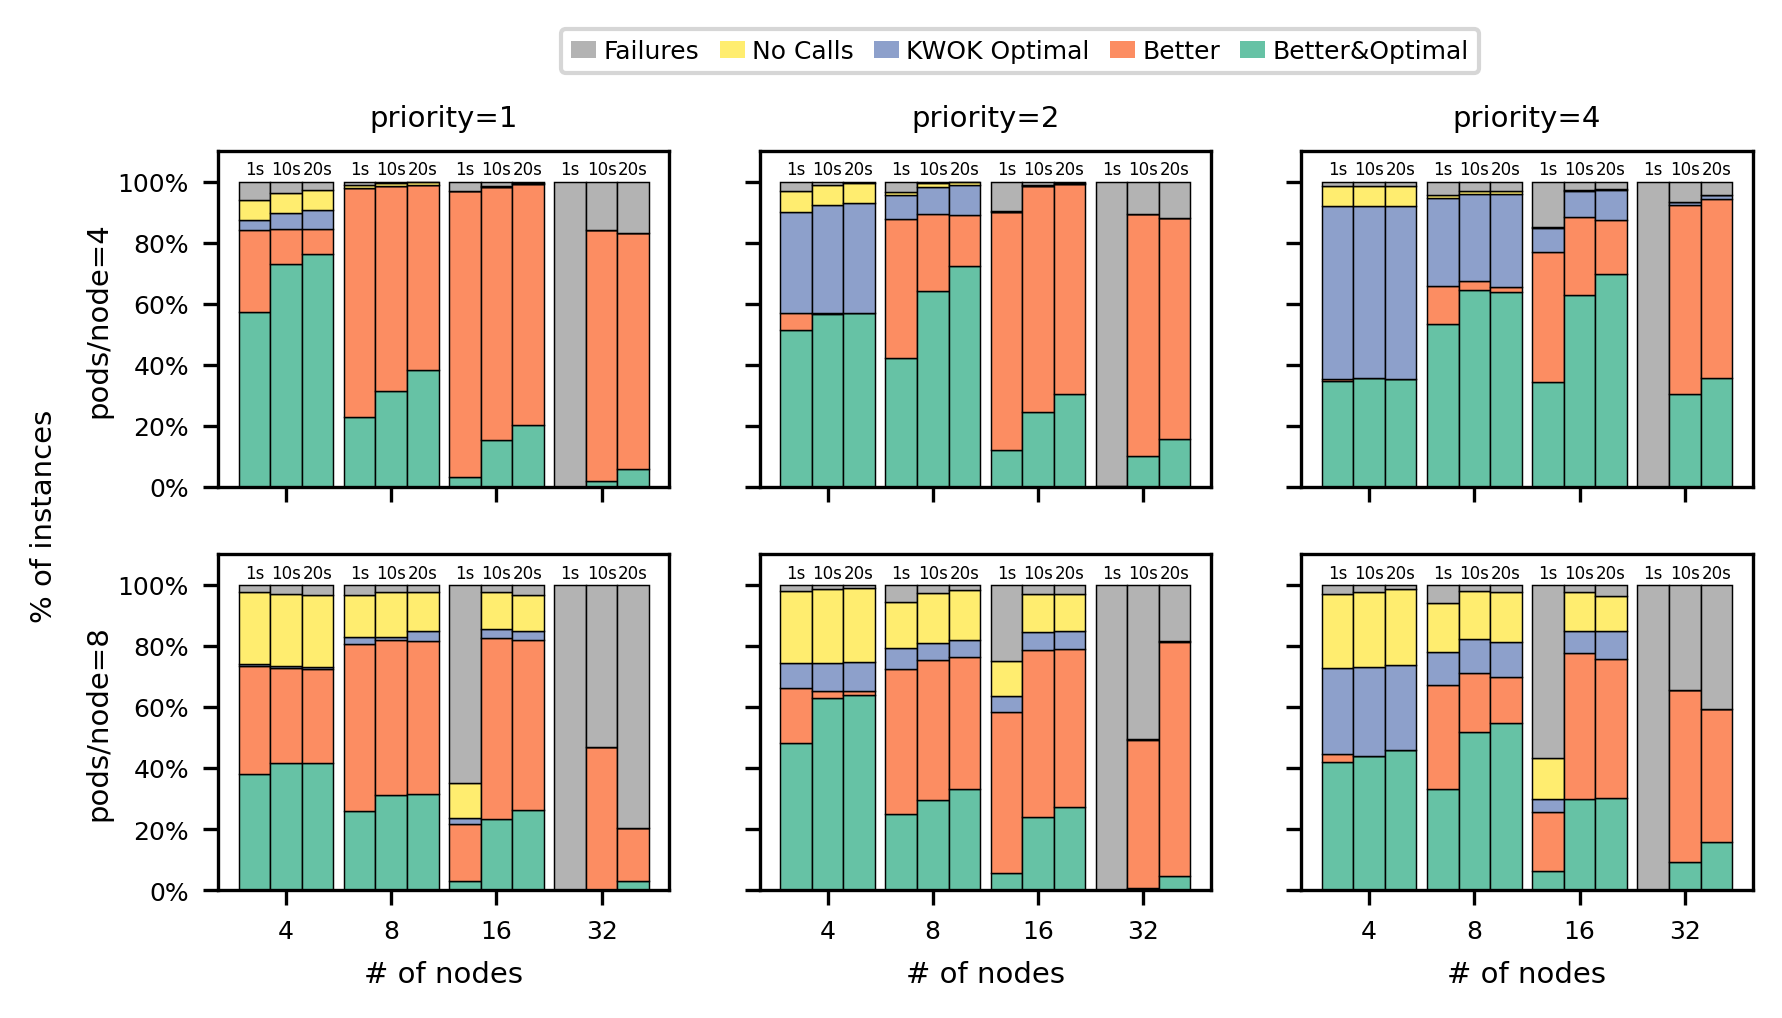
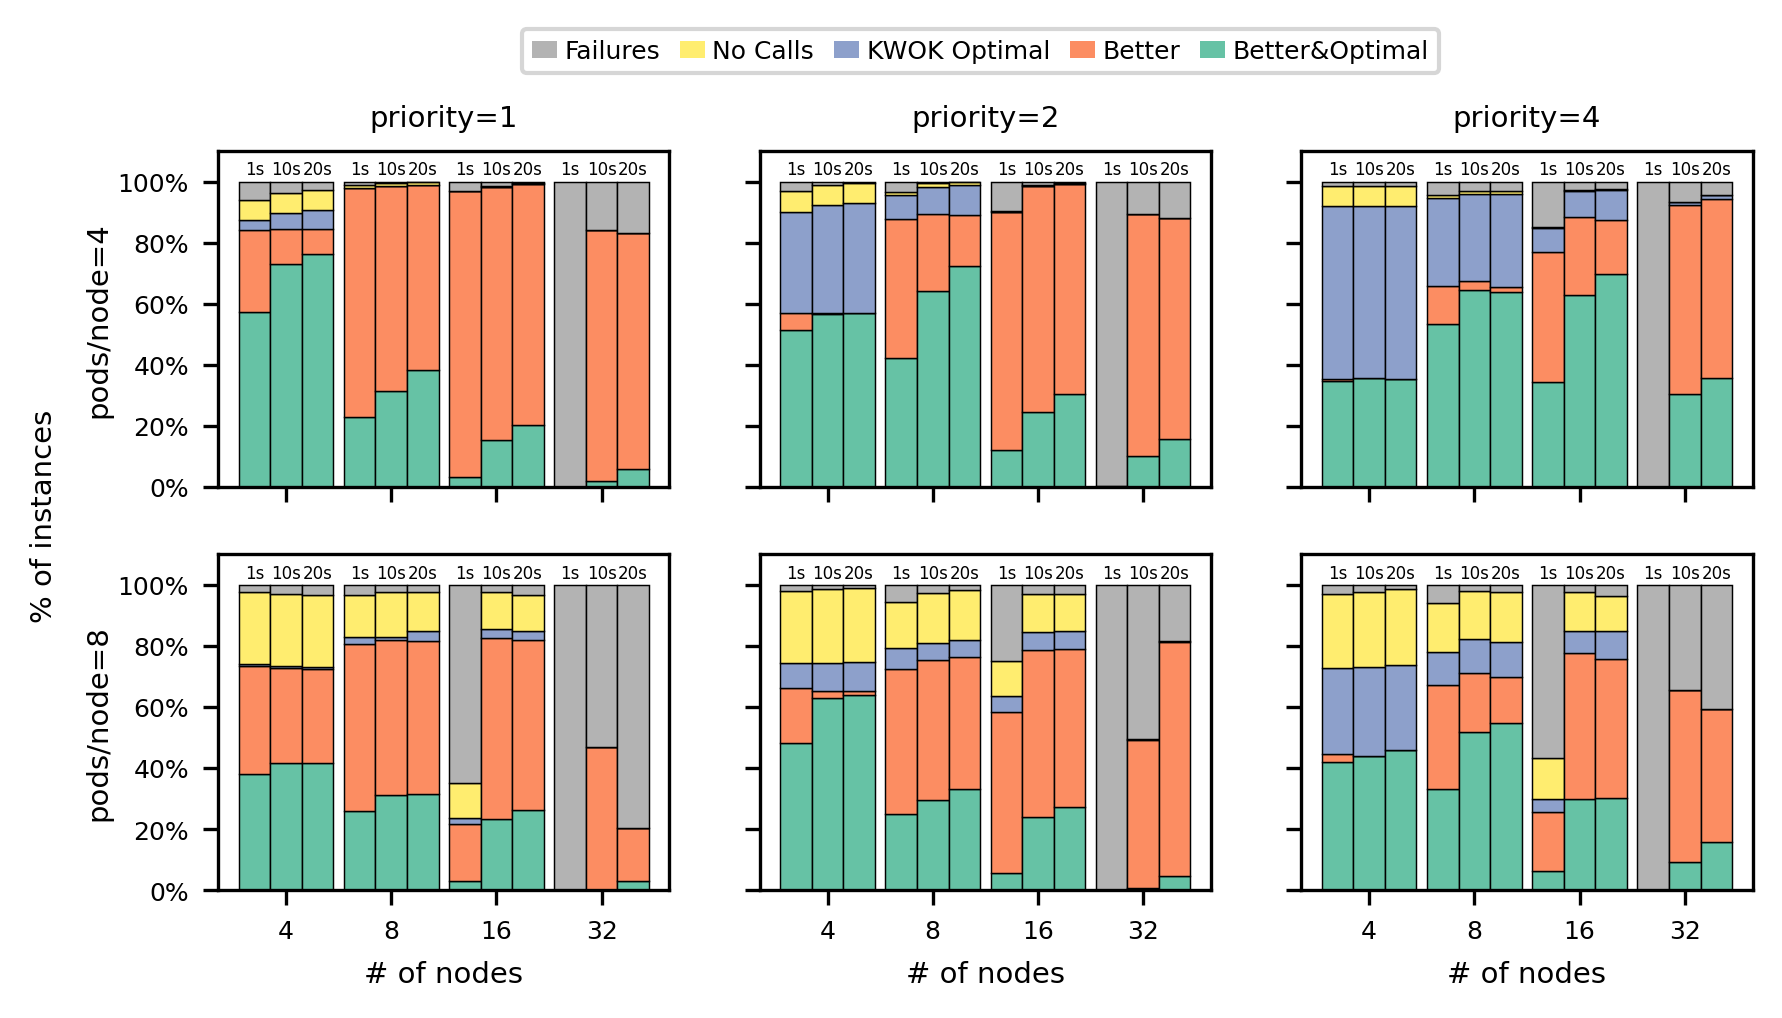
update

Changed region(s): [[0.2778, 0.0305, 0.8333, 0.0914]]

diff --git a/analysis/plots_and_tables.py b/analysis/plots_and_tables.py
@@ -237,7 +237,7 @@ def plot_2d_grid_ppn_prio_with_aggregated_util(
     fig.legend(
         legend_handles, legend_labels,
         loc="upper center",
-        bbox_to_anchor=(0.53, 1.02),
+        bbox_to_anchor=(0.51, 1.02),
         prop={"size": LEGEND_FS},
         ncol=len(legend_labels),
         handlelength=LEGEND_HANDLE_LENGTH,
